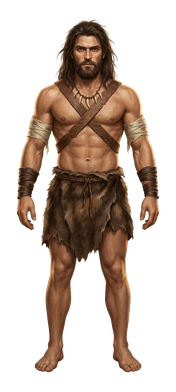
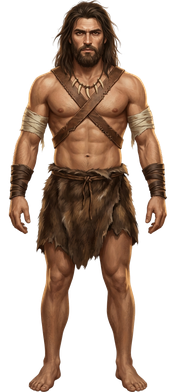
Rebuild hero sprite at 0% margin: bbox flush to 176x392 frame
- Vertical: hair tips / feet soles exactly at frame edges (0.0% margin)
- Horizontal: 4.5% transparent padding = aspect-fit minimum, no distortion
- make_sprite.py margin now a CLI arg (default 0); README spec updated

diff --git a/tools/make_sprite.py b/tools/make_sprite.py
@@ -24,7 +24,9 @@ QA_CHECKER = "assets/characters/hero_caveman/source/qa_transparency_check.png"
 QA_UPSCALE = "assets/characters/hero_caveman/source/qa_sprite_4x.png"
 
 W, H = 176, 392
-MARGIN = 0.05          # ~5% margin on each side
+# margin fraction per side; 0 = character bbox flush to the frame edges
+# (vertical axis is the binding constraint for this silhouette aspect)
+MARGIN = float(sys.argv[1]) if len(sys.argv) > 1 else 0.0
 SCALE_SUPERSAMPLE = 4  # compose at 4x, then downscale
 
 def main():

diff --git a/README.md b/README.md
@@ -10,14 +10,14 @@ Not cartoon, not anime, not pixel art.
 
 | File | Description |
 |---|---|
-| `assets/characters/hero_caveman/hero_caveman_idle_front_176x392.png` | Game-ready sprite: standing idle pose, front view. 176×392 px, 32-bit RGBA PNG, 72 DPI, fully transparent background, character centered with ~5% margin, anti-aliased edges, no outline / drop shadow / glow. |
+| `assets/characters/hero_caveman/hero_caveman_idle_front_176x392.png` | Game-ready sprite: standing idle pose, front view. 176×392 px, 32-bit RGBA PNG, 72 DPI, fully transparent background, 0% margin (bbox flush to frame: top/bottom exact, left/right minimal aspect padding), anti-aliased edges, no outline / drop shadow / glow. |
 | `assets/characters/hero_caveman/source/hero_caveman_idle_front_master.png` | Source master painting (848×1264, flat white backdrop) the sprite is derived from. |
 | `assets/characters/hero_caveman/source/qa_transparency_check.png` | QA preview: final sprite composited over a checkerboard (4× nearest) to verify alpha. |
 | `assets/characters/hero_caveman/source/qa_sprite_4x.png` | QA preview: final sprite at 4× nearest for edge/detail inspection. |
 
 Sprite technical spec (all character sprites should follow this):
 
-- Size: 176 × 392 px (portrait), character centered, ~5% margin per side
+- Size: 176 × 392 px (portrait), character centered, 0% margin (silhouette bbox flush to the frame; vertical axis binding, minimal transparent side padding from aspect fit)
 - Color: 32-bit RGBA (8 bpc), PNG with true alpha transparency
 - 72 DPI, screen use; anti-aliased silhouette; no outlines, shadows or glow
 - Lighting baked in: soft volumetric key upper-front-left, warm rim/bounce right & back
@@ -28,5 +28,5 @@ Sprite technical spec (all character sprites should follow this):
 - `tools/make_sprite.py` — reproducible pipeline that derives the game-ready
   sprite from a master painting: backdrop keying (border flood-fill),
   defringed anti-aliased alpha matte, bbox crop, aspect-preserving fit into the
-  176×392 frame with ~5% margins, premultiplied LANCZOS downscale, QA previews.
+  176×392 frame at a configurable margin (default 0), premultiplied LANCZOS downscale, QA previews.
   Run with: `python tools/make_sprite.py` (requires Pillow, NumPy, SciPy).
